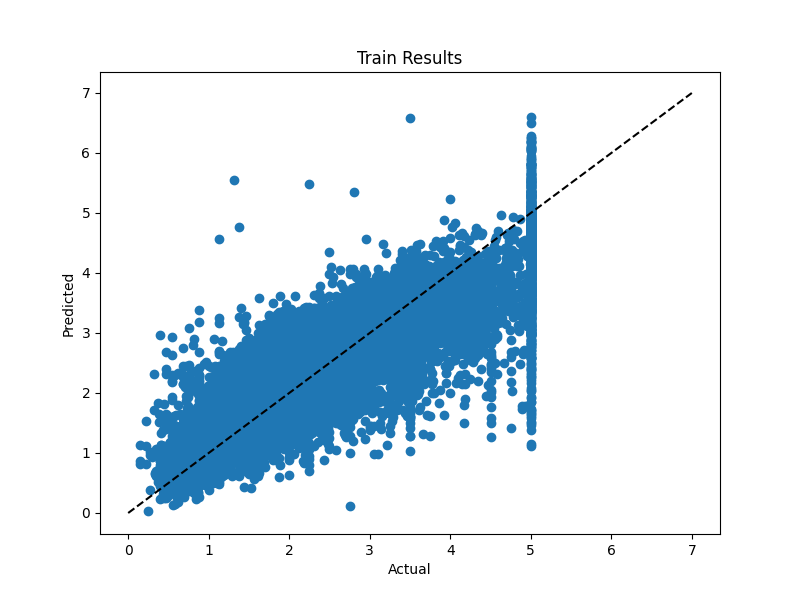
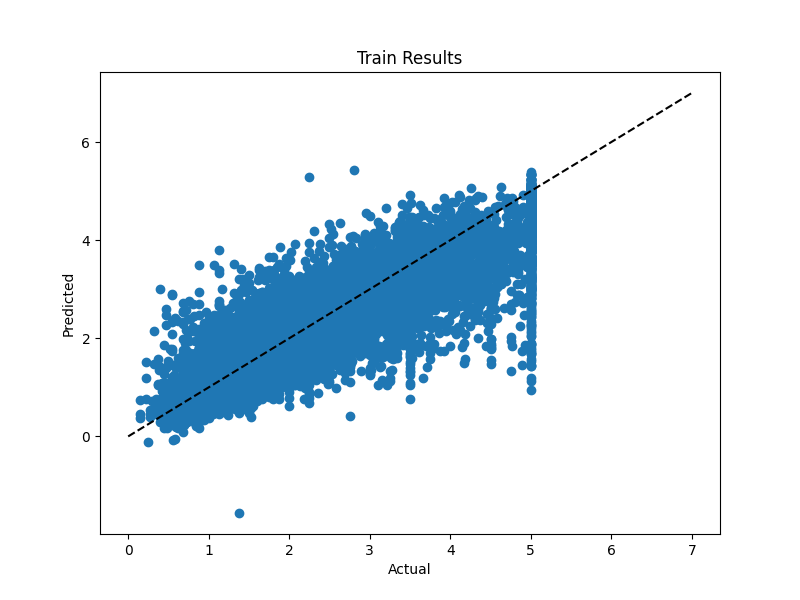
Addtional Regression Metrics & Optimization
Utilizing regression metrics such as MAE, R^2, and the training loss curve to optimize the model and change levers such as batch size, hidden layers, etc.

diff --git a/src/A02.py b/src/A02.py
@@ -33,9 +33,9 @@ X_test_scaled  = scaler.transform(X_test)
 #MLRegressor Model: 
 
 mlp = MLPRegressor(random_state=42,
-                   hidden_layer_sizes=(10,5),
-                   max_iter=500,
-                   batch_size=1000,
+                   hidden_layer_sizes=(10,8),
+                   max_iter=300,
+                   batch_size=10,
                    activation="relu",
                    validation_fraction=0.2,
                    early_stopping=True) 
@@ -72,4 +72,30 @@ plt.ylabel('Predicted')
 plt.title('Test Results')
 
 plt.savefig('figs/Test_Act_vs_Pred.png')
+plt.show()
+
+
+
+#MAE and R^2
+MAE_train = mean_absolute_error(Y_train, train_preds)
+MAE_test = mean_absolute_error(Y_test, test_preds)
+
+R2_train = r2_score(Y_train, train_preds)
+R2_test = r2_score(Y_test, test_preds)
+
+print("MAE_train= ", MAE_train)
+print("MAE_test= ", MAE_test)
+print("R2_train= ", R2_train)
+print("R2_test= ", R2_test)
+
+
+# Training Loss
+plt.figure(figsize=(8,5))
+plt.plot(mlp.loss_curve_)
+plt.xlabel("Epoch")
+plt.ylabel("Training Loss")
+plt.title("Training Loss vs Epoch (sklearn MLP)")
+plt.grid(True)
+
+plt.savefig('figs/Training_Loss.png')
 plt.show()
